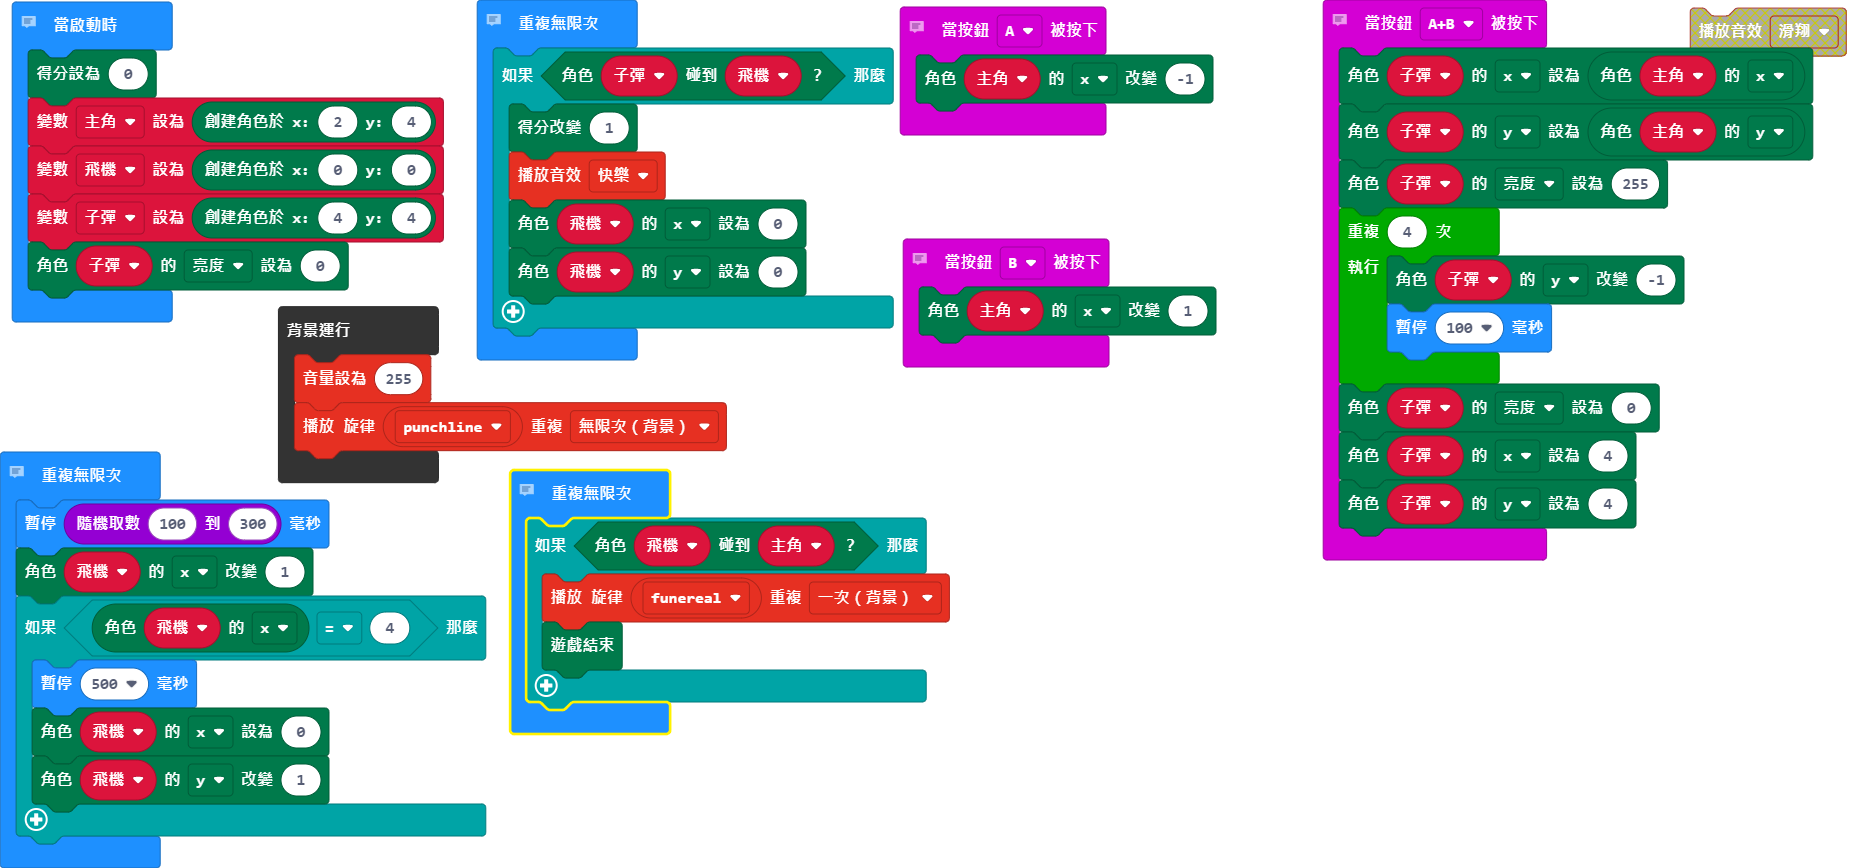
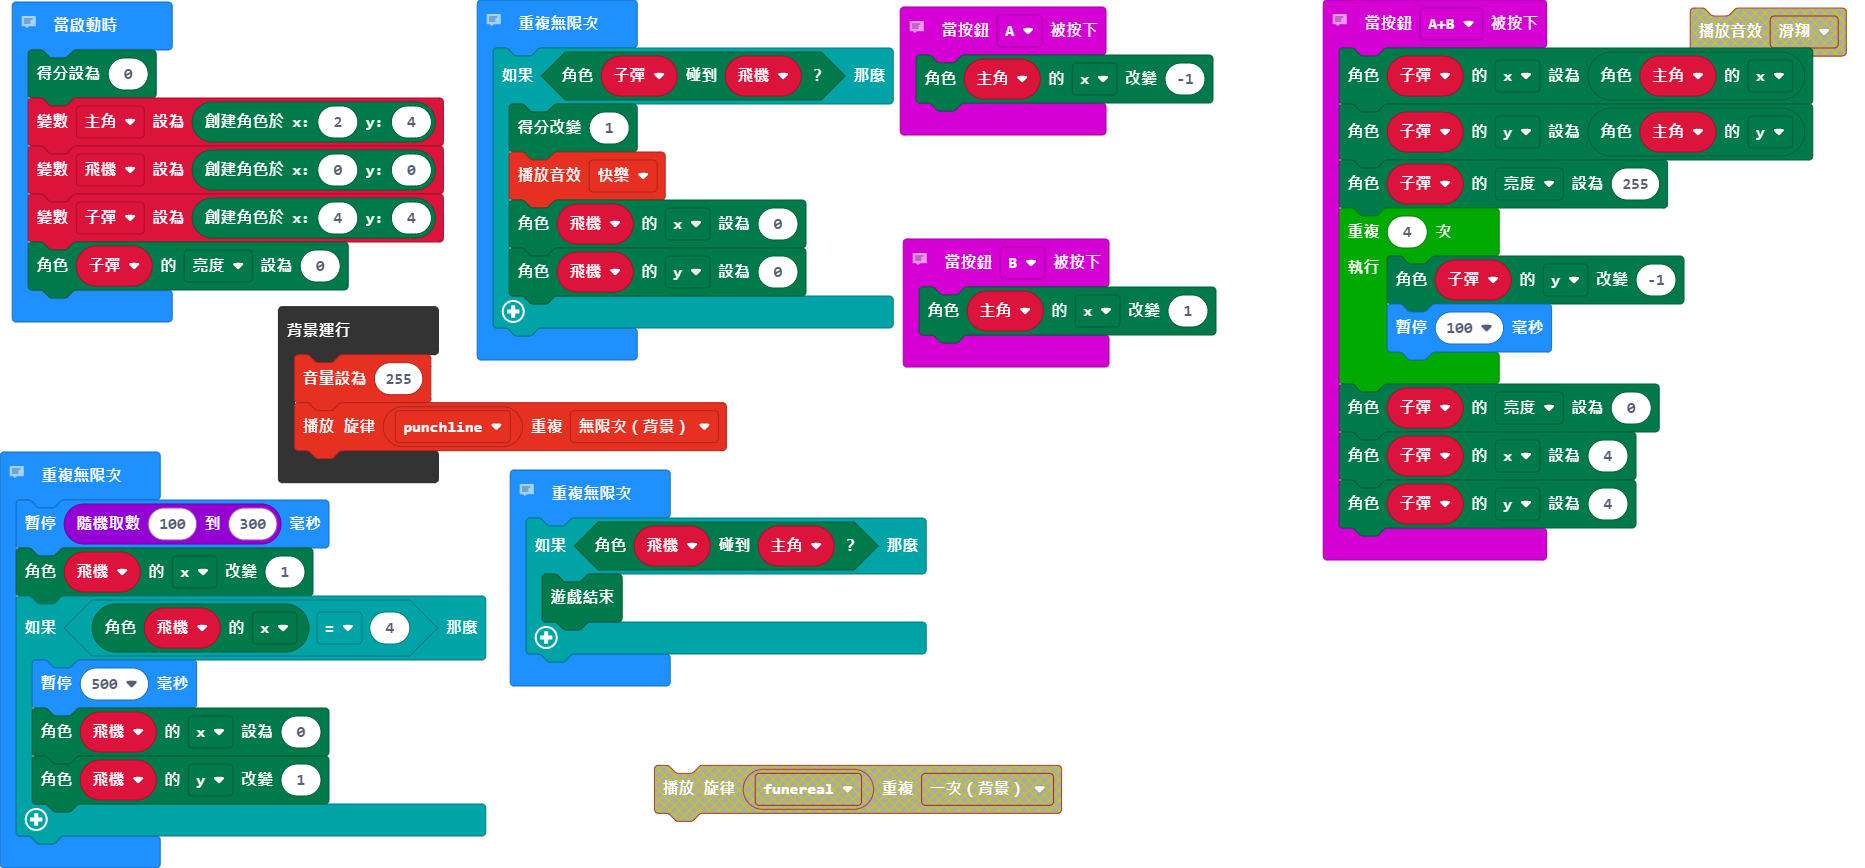
更新 main.blocks, main.ts

Changed region(s): [[0.2488, 0.6532, 0.5909, 0.9643], [0.2799, 0.5288, 0.3732, 0.5599], [0.2799, 0.591, 0.3421, 0.6221]]

diff --git a/main.ts b/main.ts
@@ -51,7 +51,6 @@ basic.forever(function () {
 // 被打就結束
 basic.forever(function () {
     if (飛機.isTouching(主角)) {
-        music.startMelody(music.builtInMelody(Melodies.Funeral), MelodyOptions.OnceInBackground)
         game.gameOver()
     }
 })
